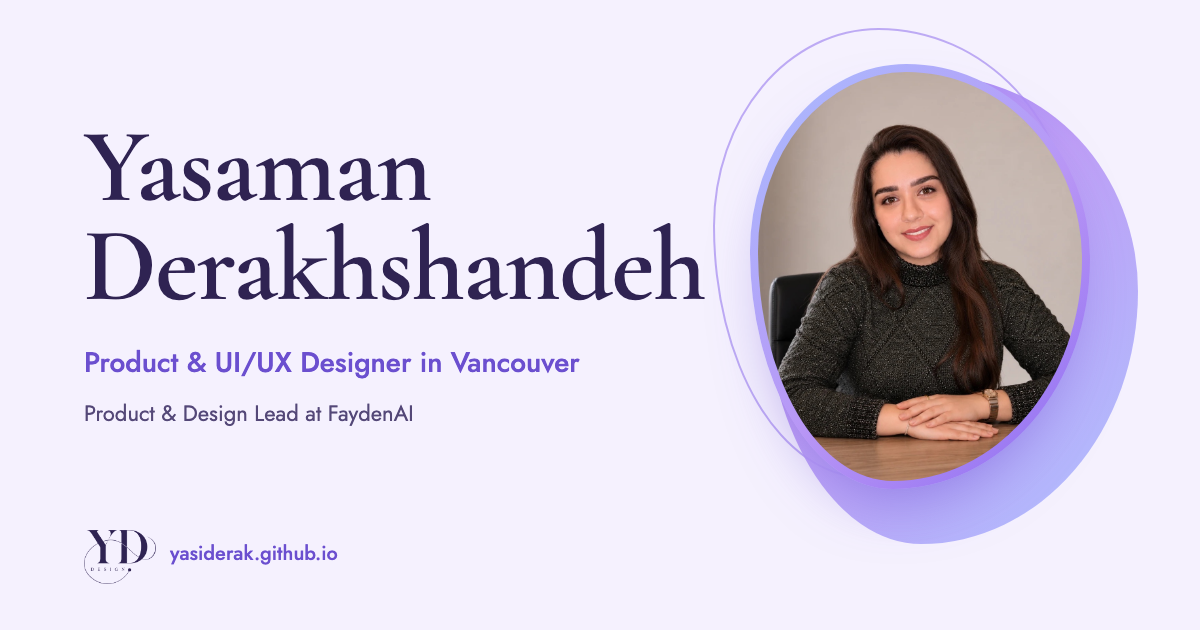
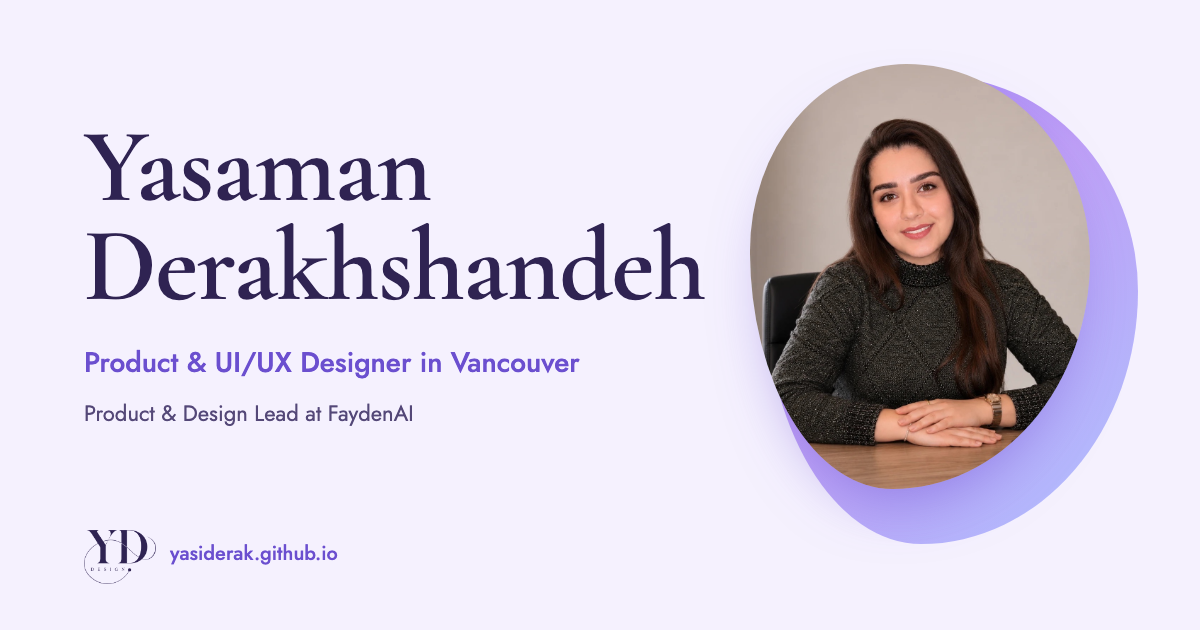
Share image: frameless photo to match the site
Adds ?v=2 so LinkedIn and messaging apps fetch the new image.

diff --git a/index.html b/index.html
@@ -18,13 +18,13 @@
     <meta property="og:title" content="Yasaman Derakhshandeh — Product Designer &amp; Design Lead" />
     <meta property="og:description" content="UI/UX and product designer, Product &amp; Design Lead at FaydenAI. Selected work, including Aplomb, a speaking coach app." />
     <meta property="og:url" content="%VITE_SITE_URL%/" />
-    <meta property="og:image" content="%VITE_SITE_URL%/og-image.png" />
+    <meta property="og:image" content="%VITE_SITE_URL%/og-image.png?v=2" />
     <meta property="og:image:width" content="1200" />
     <meta property="og:image:height" content="630" />
     <meta name="twitter:card" content="summary_large_image" />
     <meta name="twitter:title" content="Yasaman Derakhshandeh — Product Designer &amp; Design Lead" />
     <meta name="twitter:description" content="UI/UX and product designer, Product &amp; Design Lead at FaydenAI." />
-    <meta name="twitter:image" content="%VITE_SITE_URL%/og-image.png" />
+    <meta name="twitter:image" content="%VITE_SITE_URL%/og-image.png?v=2" />
 
     <script type="application/ld+json">
       {
